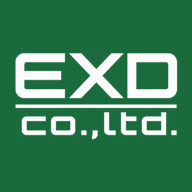
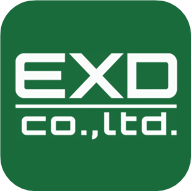
seikyu Ver.請求20261107-03: 書類の画面の上の列を見出しに（ついて来る・字を保存に合わせる）、一覧の新しい〜を大きくついて来る、アイコンの角を丸く

Changed region(s): [[0.0, 0.0, 1.0, 1.0]]

diff --git a/seikyu/index.html b/seikyu/index.html
@@ -5,7 +5,7 @@
 <meta name="viewport" content="width=device-width, initial-scale=1, viewport-fit=cover">
 <meta name="robots" content="noindex,nofollow">
 <title>請求管理</title>
-<link rel="manifest" href="manifest.json"><link rel="icon" href="icon192.png">
+<link rel="manifest" href="manifest.json"><link rel="icon" href="icon192.png?v=2">
 <style>
   /* 給与アプリの色違い（ユーザー指示 2026-11-05：アプリ内は給与の色違い風、アイコンは緑の地に白） */
   :root { --ink: #16271d; --head: #17462c; --sub: #46594d; --line: #c3d3c8; --bg: #f0f5f1; --card: #fff; --accent: #1a6b3c; --accent2: #e4f1e8; --warn: #b3261e; --ok: #1a6b3c; --amber: #8a5a00; }
@@ -84,6 +84,13 @@
   .savebar { position: sticky; bottom: 14px; z-index: 15; display: flex; justify-content: flex-end; gap: 10px; flex-wrap: wrap; margin-top: 12px; pointer-events: none; }   /* 保存ボタンだけが右下について来る（帯にしない。ユーザー指示 2026-11-07） */
   .savebar button { pointer-events: auto; box-shadow: 0 4px 14px rgba(0,0,0,.35); }
   button.b.big { font-size: 1.25rem; padding: 14px 40px; min-height: 56px; }
+  button.b.mid { font-size: 1.15rem; padding: 11px 22px; }
+  /* 書類の画面の上の列（一覧へ〜紙を見る）は見出しにして、下へ動かしてもついて来る。ボタンの字は保存と同じ大きさ（ユーザー指示 2026-11-07） */
+  .headcard { position: sticky; top: var(--hdH, 0px); z-index: 14; box-shadow: 0 4px 10px rgba(0,0,0,.12); }
+  .headcard button.b { font-size: 1.25rem; }
+  /* 一覧の「＋ 新しい〜」は右上についてくる（ユーザー指示 2026-11-07） */
+  .newfloat { position: sticky; top: calc(var(--hdH, 0px) + 8px); height: 0; z-index: 16; display: flex; justify-content: flex-end; pointer-events: none; }
+  .newfloat button { pointer-events: auto; box-shadow: 0 4px 14px rgba(0,0,0,.3); margin: 15px 17px 0 0; }
   #ask .card { width: 100%; max-width: 520px; margin: 0; max-height: 92vh; overflow: auto; }
   #upd { position: fixed; left: 50%; transform: translateX(-50%); top: 8px; z-index: 60; border: 0; border-radius: 18px; padding: 9px 16px; background: var(--accent); color: #fff; font: 700 13px inherit; box-shadow: 0 2px 8px rgba(0,0,0,.3); white-space: nowrap; cursor: pointer; }
   /* 保存しています・エラーは画面の真ん中に大きく出す（ユーザー指示 2026-11-06：どこかわからなかった） */
@@ -133,12 +140,12 @@
 <main id="m"></main>
 <div id="busy"></div>
 
-<script src="calc.js?v=Ver.請求20261107-02"></script>
+<script src="calc.js?v=Ver.請求20261107-03"></script>
 <script type="module">
 import { initializeApp } from 'https://www.gstatic.com/firebasejs/10.12.2/firebase-app.js';
 import { getAuth, onAuthStateChanged, signInWithEmailAndPassword, signOut } from 'https://www.gstatic.com/firebasejs/10.12.2/firebase-auth.js';
 import { getFirestore, collection, doc, getDoc, getDocs, setDoc, deleteDoc, writeBatch, runTransaction, onSnapshot } from 'https://www.gstatic.com/firebasejs/10.12.2/firebase-firestore.js';
-const APP_VER = 'Ver.請求20261107-02';   // 版の名前は「Ver.請求YYYYMMDD-NN」（ユーザー指示 2026-11-06）
+const APP_VER = 'Ver.請求20261107-03';   // 版の名前は「Ver.請求YYYYMMDD-NN」（ユーザー指示 2026-11-06）
 const API = 'https://script.google.com/macros/s/AKfycbzpJgqJOqQz5180PQF2S3kVN7TWg0c1dnyUUUNuCZtzy5_pmKEhAkw5w3gqSj31EEA1/exec';   // Apps Script「請求管理」（ポータル・給与とは別）
 /* ログインは給与アプリと同じ（ユーザー指示 2026-11-05）：ポータルの Firebase、メールとパスワード。入れるのはマスターと「請求管理」の権限（users.canInvoice）がある人 */
 const app = initializeApp({ apiKey: 'AIzaSyDVR4p4DO4s9h70uPlXUVlhNcMP9-YkQ5Q', authDomain: 'genba-portal-9077b.firebaseapp.com', projectId: 'genba-portal-9077b' });
@@ -285,8 +292,15 @@ const store = {
 };
 const endOfMarch = y => new Date((Number(y) + 1) + '-03-31T23:59:59+09:00').getTime();
 const liveYear = y => Date.now() <= endOfMarch(y);
+{ const hd = document.getElementById('hd'), setH = () => document.documentElement.style.setProperty('--hdH', (hd.offsetHeight || 0) + 'px'); setH(); try { new ResizeObserver(setH).observe(hd); } catch (e) { addEventListener('resize', setH); } }
 /* 保存ボタンを大きく、下へ動かしても見えるように（ユーザー指示 2026-11-07：設定・請求書・得意先・送り状・領収書・まとめて入金）。
    右下に大きいボタンを出して、下へ動かしてもついて来る。押すと元のボタンを押したのと同じ */
+function headBar(card, save) { if (!card) return; card.classList.add('headcard'); if (save) save.classList.add('big'); }
+function floatNew(btn) {
+  if (!btn) return; btn.classList.add('mid');
+  const ph = btn.cloneNode(true); ph.removeAttribute('id'); ph.style.visibility = 'hidden'; ph.tabIndex = -1; btn.replaceWith(ph);   // 元の所は同じ幅を空けておく（ほかのボタンが動かない）
+  const h = document.createElement('div'); h.className = 'newfloat'; h.appendChild(btn); M.prepend(h);
+}
 function saveBar(host, list) {
   if (!host) return; const old = host.querySelector(':scope > .savebar'); if (old) old.remove();
   const bs = list.filter(x => x[0]); if (!bs.length) return;
@@ -660,7 +674,7 @@ async function drawInvList() {
   if ($('cm')) $('cm').onchange = () => { if ($('cm').value) { P.cm = $('cm').value; drawInvList(); } };
   $('fl').onchange = () => { ST.filt = $('fl').value; fill(); };
   $('q').oninput = () => { ST.q = $('q').value; fill(); };
-  $('nw').onclick = () => openInv(newInv());
+  $('nw').onclick = () => openInv(newInv()); floatNew($('nw'));
   let list = [];
   try { list = P.per === 'close' ? await invsOfRange(closeRange(P.cm || closeYm(today())).from, closeRange(P.cm || closeYm(today())).to) : P.per === 'all' ? await invsOfRange('2000-01-01', '2099-12-31') : P.per === 'range' ? (P.from && P.to ? await invsOfRange(P.from, P.to) : []) : await invsOfYear(P.per); }
   catch (e) { $('lst').innerHTML = '<div class="msg">' + esc(e.message) + '</div>'; return; }
@@ -833,6 +847,7 @@ function drawInvEdit() {
     });
   }
   ST.readInv = readForm;
+  headBar(M.querySelector('.card'), $('sv'));
   $('back').onclick = async () => { if (ST.dirty && !(await okBox('保存していない変更があります。捨てて一覧へ戻りますか？', '捨てて戻る'))) return; ST.dirty = false; draw(); };
   M.querySelectorAll('input,select,textarea').forEach(e => { e.addEventListener('input', mark); });
   if (!ro) {
@@ -867,7 +882,6 @@ function drawInvEdit() {
     });
     $('addL').onclick = () => { readForm(); inv.lines.push({ type: 'item', name: '', qty: 1, unit: '式', price: null, tax: 'std' }); drawInvEdit(); ST.dirty = true; };
     $('addT').onclick = () => { readForm(); inv.lines.push({ type: 'text', name: '' }); drawInvEdit(); ST.dirty = true; };
-    saveBar(M, [[$('sv'), '保存', 1]]);
     $('sv').onclick = async () => {
       readForm();
       if (!inv.custId && !inv.to.name) return alert('得意先を選んでください。');
@@ -1191,7 +1205,7 @@ async function drawCov() {
     '<div class="note" style="margin-top:6px;">請求書を付けずに、送り状だけを作って印刷します。作った送り状はスプレッドシート「請求管理DB」の「送り状」に残り、この一覧は開いたときに読み込みます。行を押すと開いて、直して保存・もう一度印刷できます。この送り状は、請求書に付ける送り状とは別です（初めの値は設定の「送り状（送り状タブ）」）。</div></div>' +
     '<div class="card" id="cvl"><div class="note">読み込んでいます…</div></div>';
   ltWire('cov', drawCov);
-  $('cvNew').onclick = () => coverEdit(null);
+  $('cvNew').onclick = () => coverEdit(null); floatNew($('cvNew'));
   $('cvRe').onclick = () => { ST.covCache = {}; drawCov(); };
   const key = from + '_' + to; ST.covCache = ST.covCache || {};
   let list;
@@ -1372,7 +1386,7 @@ function payBatch(rows) {
   $('pbAll').onchange = e => { trs.forEach(tr => { tr.querySelector('[data-c]').checked = e.target.checked; const a = tr.querySelector('[data-f="amount"]'); if (e.target.checked && !a.value.trim()) a.value = yen(rows[+tr.dataset.k].amt); }); cnt(); };
   $('pbDA').onclick = () => { const d = $('pbD').value; trs.forEach(tr => { if (tr.querySelector('[data-c]').checked) tr.querySelector('[data-f="date"]').value = d; }); };
   $('pbBack').onclick = async () => { if (ST.dirty && !(await okBox('入れた入金はまだ保存していません。捨てて戻りますか？', '捨てて戻る'))) return; ST.dirty = false; ST.payBatch = false; drawPay(); };
-  saveBar(M, [[$('pbSave'), 'チェックした物をまとめて保存', 1]]);
+  { const hr = M.querySelector('.card .row'); hr.appendChild($('pbN')); hr.appendChild($('pbSave')); headBar(M.querySelector('.card'), $('pbSave')); }
   $('pbSave').onclick = async () => {
     const todo = trs.filter(tr => tr.querySelector('[data-c]').checked).map(tr => { const g = f => tr.querySelector('[data-f="' + f + '"]').value; return { x: rows[+tr.dataset.k], p: { date: g('date'), amount: num(g('amount')) || 0, fee: num(g('fee')) || 0, how: g('how'), memo: g('memo').trim(), at: nowStr(), by: ST.me.name } }; });
     if (!todo.length) return alert('保存する行にチェックを付けてください。');
@@ -1409,7 +1423,7 @@ function drawSlips(key) {
   const base = ST.rcps.filter(r => K.of(r) && (!K.era || eraOk(key, r))).map(r => ({ r, id: r.id, date: r.date, no: r.no, name: r.toName || '', amt: Number(r.amount) || 0 }));
   M.innerHTML = '<div class="card"><div class="row"><b style="font-size:1.1rem;">' + K.name + '</b><span class="sp"></span><button class="b dark" id="nr">＋ 新しい' + K.name + '</button></div><div class="row lt" style="margin-top:8px;">' + (K.era ? eraBar(key) : '') + perBar(key, K.date) + '</div>' + ltBar(key, base, ['dateD', 'dateA', 'name', 'amt'], K.date) +
     '<div class="note" style="margin-top:6px;">行を押すと開きます（紙を見る・印刷・PDF・取消は開いた画面で）。請求書の画面の「' + K.name + 'を作る」からも作れます。' + (key === 'off' ? '相殺伝票は紙を作るだけで、請求書の入金には入りません（入金は今までどおり「入金を入れる」で）。' : '') + K.date + 'の月ごとに区切って出します。</div></div><div class="card" id="rl"></div>';
-  $('nr').onclick = K.mk;
+  $('nr').onclick = K.mk; floatNew($('nr'));
   const R = id => ST.rcps.find(r => r.id === id);
   function fill() {
     const rows = ltApply(key, base.filter(x => perOk(key, x.date))), tot = a => a.filter(x => x.r.state !== '取消').reduce((s, x) => s + x.amt, 0);
@@ -1532,7 +1546,7 @@ function drawRcpEdit() {
   }
   const ready = async () => !ST.dirty || await save();   // 直していたら保存してから
   const fname = x => K.name + '_' + x.no + '_' + x.toName + '.pdf';
-  saveBar(M, [[$('rSave'), '保存', 1]]);
+  headBar(M.querySelector('.card'), $('rSave'));
   if ($('rSave')) $('rSave').onclick = save;
   if ($('rPrint')) $('rPrint').onclick = async () => { if (await ready()) await printPages(rcpPages(ST.rcpOpen)); };
   if ($('rPdf')) $('rPdf').onclick = async () => { if (!(await ready())) return; const x = ST.rcpOpen; try { await pdfOf(rcpPages(x), fname(x)); } catch (e) { alert(e.message); } };
@@ -1564,6 +1578,7 @@ function drawCust() {
     $('cXls').onclick = () => custExport([...sel.ids].map(id => ST.custs.find(c => c.id === id)).filter(Boolean));
     $('cDel').onclick = () => custDelete([...sel.ids].map(id => ST.custs.find(c => c.id === id)).filter(Boolean));
   }
+  floatNew($('nc'));
   $('nc').onclick = () => { const mx = Math.max(0, ...ST.custs.map(c => Number(c.code) || 0)); editCust({ id: newId('c'), code: String(mx + 1).padStart(4, '0'), name: '', honor: '様', terms: plain(ST.cfg.defTerms), sendBy: '紙', active: true, isNew: true }); };
   M.querySelectorAll('tr.link').forEach(tr => tr.onclick = () => editCust(plain(ST.custs.find(c => c.id === tr.dataset.id))));
   wireStk(M, id => plain(ST.custs.find(c => c.id === id)), async c => { if (await saveCustSticky(c)) drawCust(); });
@@ -1630,7 +1645,7 @@ function editCust(c) {
   const rd = () => { M.querySelectorAll('[data-c]').forEach(e => { c[e.dataset.c] = e.value.trim(); }); c.terms = { close: Number($('tc').value), months: Number($('tm').value), day: Number($('td').value) }; c.active = $('ac').value === '1'; };
   ['tc', 'tm', 'td'].forEach(id => $(id).onchange = () => { rd(); $('tl').textContent = SK.termsLabel(c.terms); });
   $('back').onclick = () => drawCust();
-  saveBar(M, [[$('sv'), '保存', 1]]);
+  headBar(M.querySelector('.card'), $('sv'));
   $('sv').onclick = async () => {
     rd(); if (!c.name) return alert('会社名を入れてください。');
     if (ST.custs.some(x => x.id !== c.id && x.code === c.code)) return alert('コード ' + c.code + ' はほかの得意先が使っています。');
